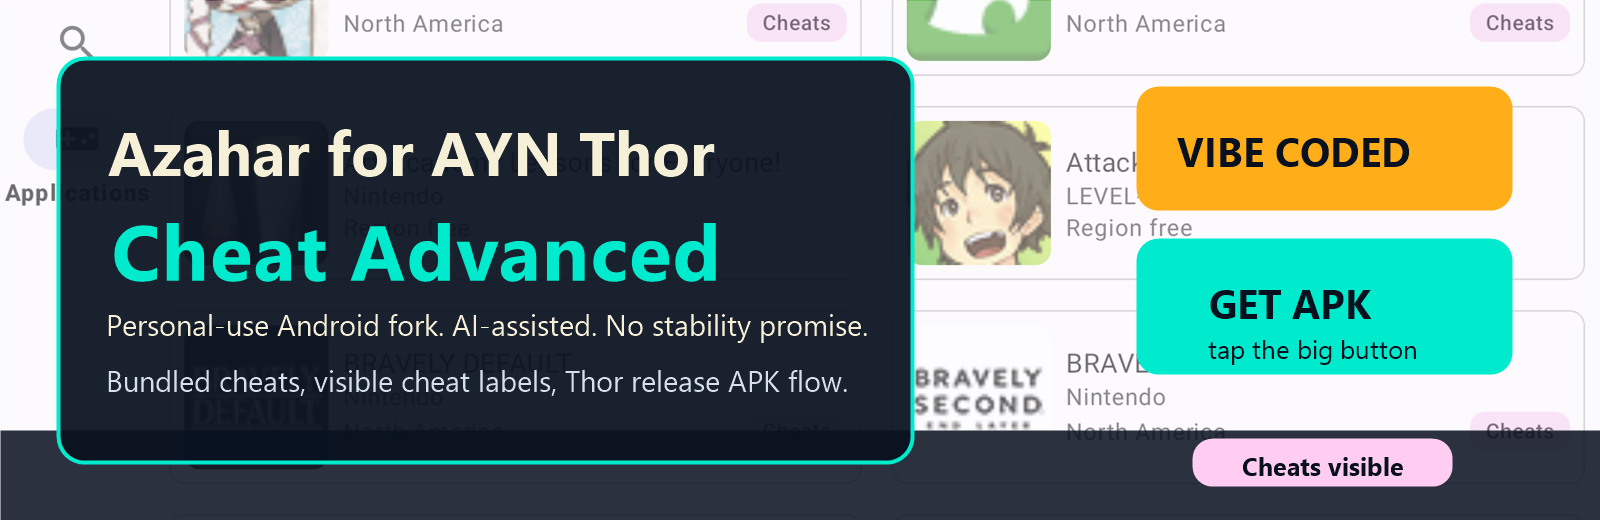
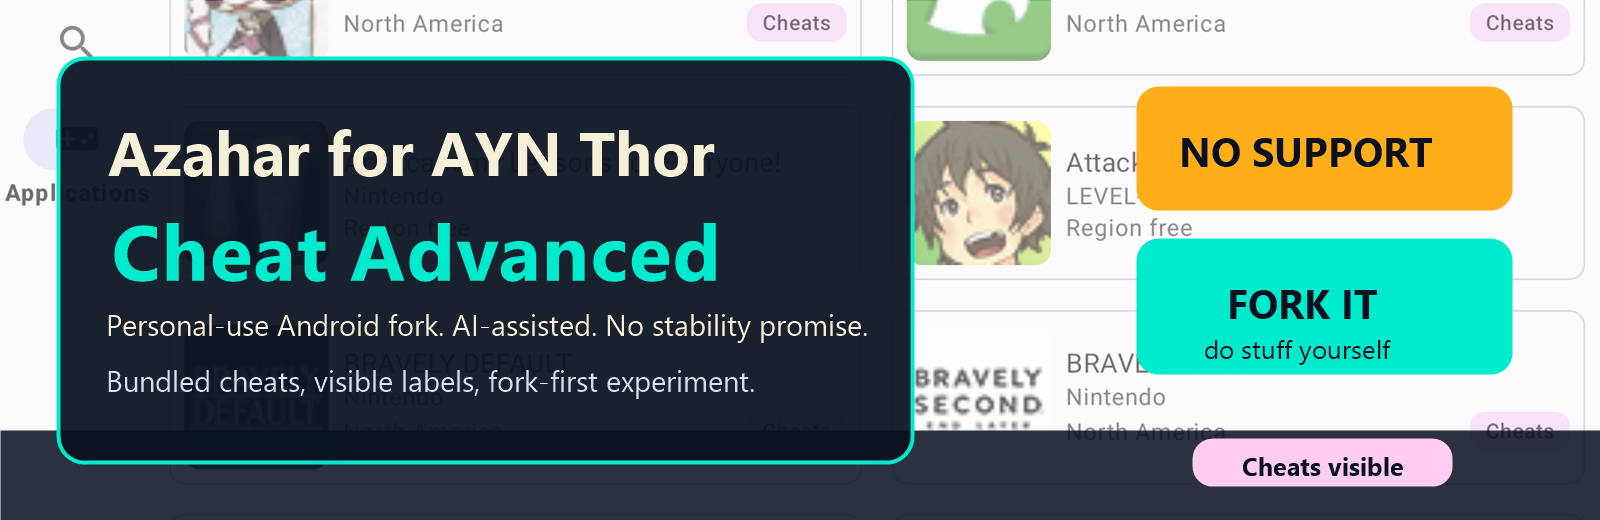
Replace APK CTA with no-support messaging

diff --git a/README.md b/README.md
@@ -5,9 +5,7 @@
 </p>
 
 <p align="center">
-  <a href="#get-the-apk">
-    <img src="docs/media/branding/download-thor-apk-button.svg" alt="Get the Thor APK">
-  </a>
+  <img src="docs/media/branding/no-support-fork-it.svg" alt="No support. Fork it and do stuff yourself.">
 </p>
 
 This is a personal Android fork of [Azahar](https://github.com/azahar-emu/azahar) for the AYN Thor. It is tuned around my own handheld setup, bundled cheat workflow, and local testing. It is not upstream Azahar, not an official release channel, and not trying to be a general-purpose support project.
@@ -17,16 +15,6 @@ This is a personal Android fork of [Azahar](https://github.com/azahar-emu/azahar
 
 > [!CAUTION]
 > Personal-use experiment. No guarantee of stability, compatibility, correctness, performance, support, or future updates. No games, keys, BIOS, firmware, or copyrighted game content are included. Use your own legally dumped content.
-
-## Get The APK
-
-The simple path is:
-
-1. Open the [GitHub Releases page](https://github.com/noeldvictor/azahar-thor-experiment/releases).
-2. Download `app-vanilla-relWithDebInfoLite.apk`.
-3. Install that APK on the AYN Thor.
-
-If the Releases page is empty, no public APK has been uploaded yet. Build it locally with the command in [Build Locally](#build-locally).
 
 ## What This Is
 
@@ -46,7 +34,7 @@ If the Releases page is empty, no public APK has been uploaded yet. Build it loc
 
 ## Support And Issues
 
-Do not open issues expecting support for this experiment. If something breaks, fork it, patch it, and own the result. If the AI/vibe-coded nature of the fork is a problem, look elsewhere.
+Do not open issues expecting support for this experiment. Fork it and do stuff yourself. If something breaks, patch it and own the result. If the AI/vibe-coded nature of the fork is a problem, look elsewhere.
 
 The upstream Azahar project has its own rules, standards, and support expectations. Do not send Thor-experiment problems to upstream.
 
